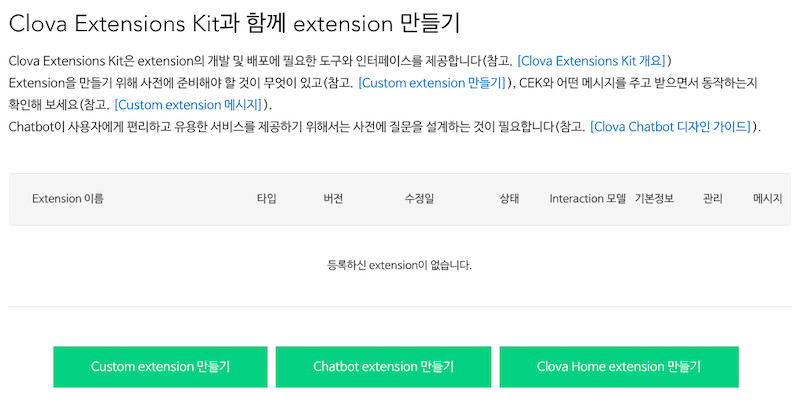
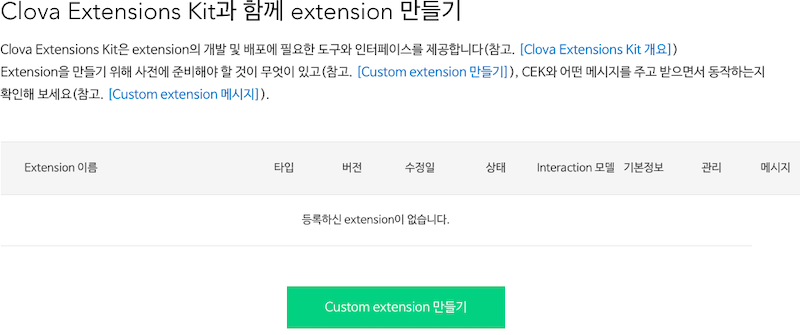
Change screenshot image of extension list

diff --git a/ko-KR/Design/Design_Custom_Extension.md b/ko-KR/Design/Design_Custom_Extension.md
@@ -173,7 +173,7 @@ Interaction 모델이란, Clova가 사용자의 발화를 어떻게 인식하게
 
 ![](/Design/Assets/Images/Extension_Design-Interaction_Model_Analysis_Diagram.png)
 
-Extension에 필요한 interaction 모델은 Clova developer console에서 정의할 수 있습니다. 그 전에 우선 interaction 모델을 이해하고 설계하는 과정이 필요합니다. 이런 과정 없이 무작정 Clova developer console에서 interaction 모델을 정의하게 되면 작업 효율이 떨어지거나 사용자 요청이 의도된 대로 인식되지 않을 수 있습니다. 사용자의 실제 의도를 잘 파악하는 interaction 모델을 만들려면 interaction 모델을 만들기 전에 다음과 같은 내용을 이해하고 interaction 모델 설계에 반영해야 합니다.
+Custom extension에 필요한 interaction 모델은 Clova developer console에서 정의할 수 있습니다. 그 전에 우선 interaction 모델을 이해하고 설계하는 과정이 필요합니다. 이런 과정 없이 무작정 Clova developer console에서 interaction 모델을 정의하게 되면 작업 효율이 떨어지거나 사용자 요청이 의도된 대로 인식되지 않을 수 있습니다. 사용자의 실제 의도를 잘 파악하는 interaction 모델을 만들려면 interaction 모델을 만들기 전에 다음과 같은 내용을 이해하고 interaction 모델 설계에 반영해야 합니다.
 
 * [Intent](#Intent)
 * [Slot](#Slot)
